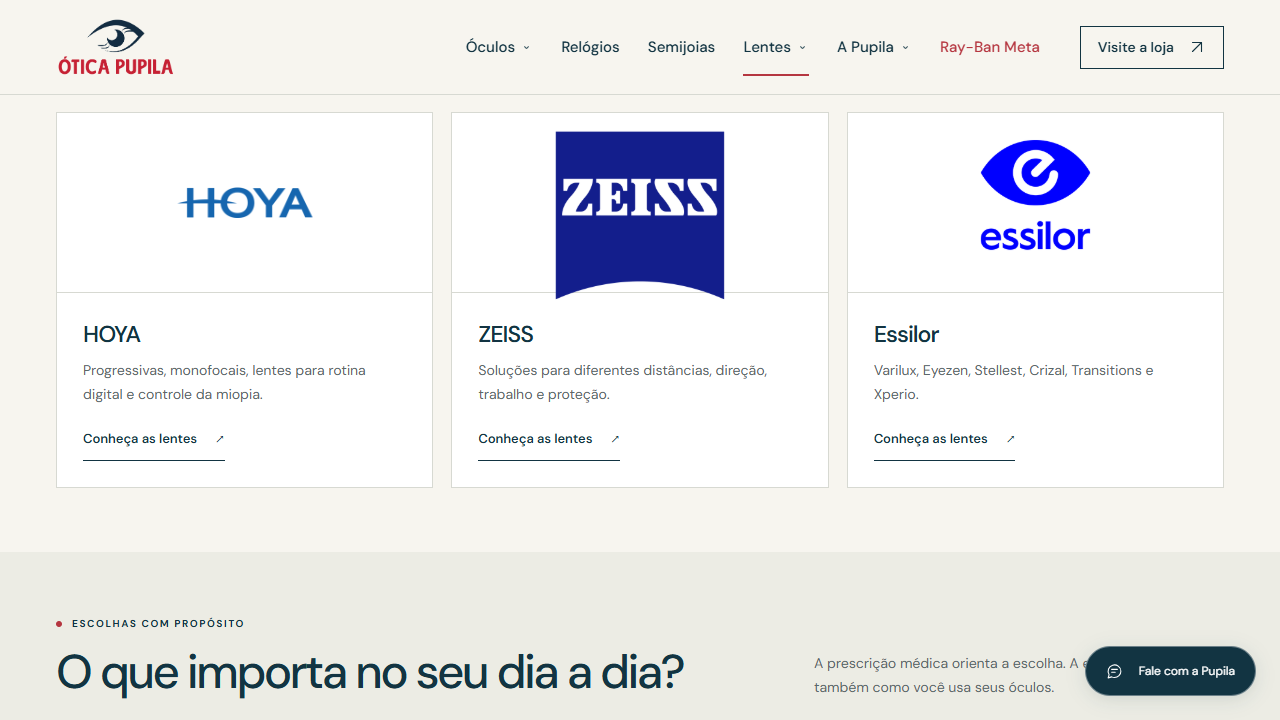
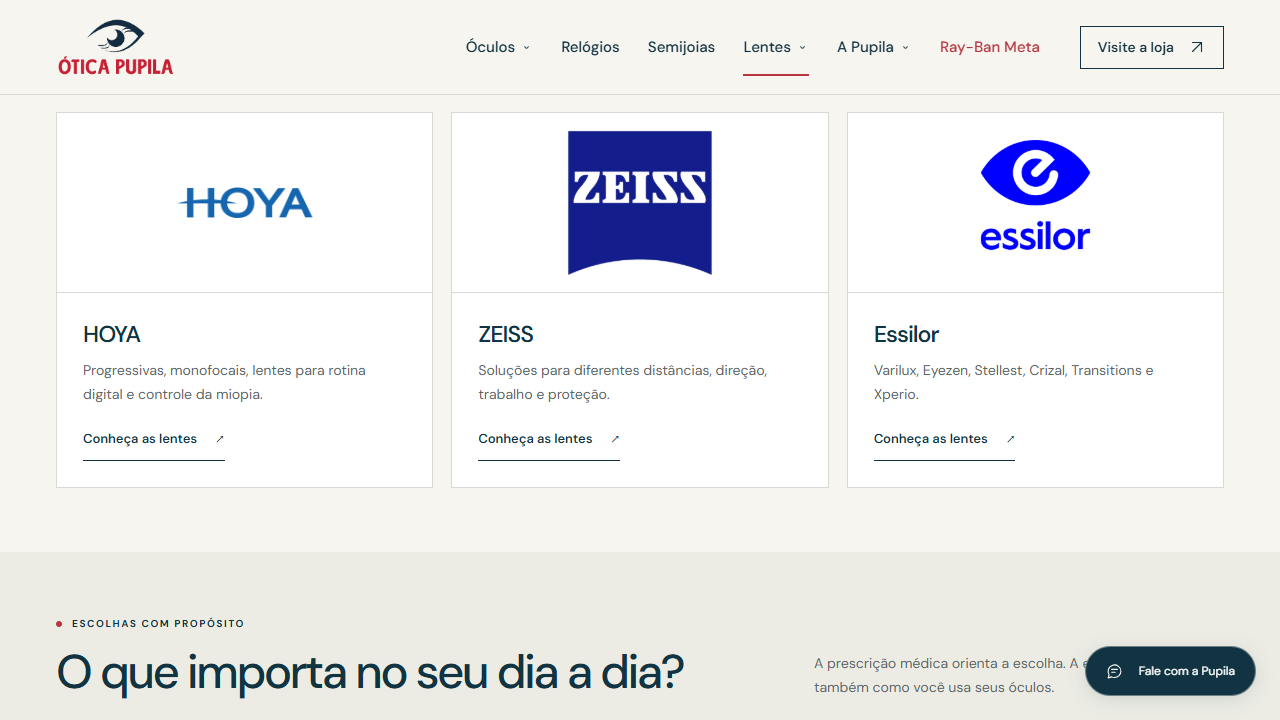
add lens technology guide and refine brand card

Changed region(s): [[0.4062, 0.1833, 0.5938, 0.4278]]

diff --git a/lentes/index.html b/lentes/index.html
@@ -64,8 +64,12 @@
 <section class="lens-service section"><div class="wrap"><div class="lens-service-heading"><div><p class="eyebrow">COMPRA COM RECEITA MÉDICA</p><h2>Como funciona o atendimento.</h2></div><p>A equipe da Pupila orienta a escolha das lentes para óculos com base na sua prescrição. Consultas, exames e adaptação médica não são realizados na loja.</p></div><div class="lens-service-steps"><div><span>01</span><h3>Traga sua receita</h3><p>Apresente a prescrição médica para as lentes que você procura.</p></div><div><span>02</span><h3>Converse com a equipe</h3><p>Conte como usa seus óculos no trabalho, na leitura e no dia a dia.</p></div><div><span>03</span><h3>Consulte as opções</h3><p>Verificamos produtos, configurações e prazos para sua escolha.</p></div></div><button type="button" class="button primary" data-whatsapp="Olá! Tenho minha receita médica e gostaria de saber mais sobre lentes para óculos na Ótica Pupila.">Consultar minhas lentes <span aria-hidden="true">↗</span></button></div></section>
 <section class="wrap section lens-brands"><div class="section-heading lens-section-heading"><div><p class="eyebrow">AS MARCAS COM QUE TRABALHAMOS</p><h2>Três referências em lentes.</h2></div><p>A Pupila é revendedora autorizada de HOYA, ZEISS e Essilor. Conheça as famílias de lentes e tecnologias de cada marca.</p></div><div class="lens-brand-grid"><a class="lens-brand-card" href="../lentes/hoya/"><span class="lens-brand-card-logo"><img class="lens-logo" src="../assets/lenses/hoya.png" width="320" height="320" alt="HOYA" loading="lazy" decoding="async"></span><span class="lens-brand-card-copy"><strong>HOYA</strong><span>Progressivas, monofocais, lentes para rotina digital e controle da miopia.</span><span class="text-link">Conheça as lentes <span aria-hidden="true">↗</span></span></span></a><a class="lens-brand-card" href="../lentes/zeiss/"><span class="lens-brand-card-logo"><img class="lens-logo" src="../assets/lenses/zeiss.png" width="3840" height="2160" alt="ZEISS" loading="lazy" decoding="async"></span><span class="lens-brand-card-copy"><strong>ZEISS</strong><span>Soluções para diferentes distâncias, direção, trabalho e proteção.</span><span class="text-link">Conheça as lentes <span aria-hidden="true">↗</span></span></span></a><a class="lens-brand-card" href="../lentes/essilor/"><span class="lens-brand-card-logo"><img class="lens-logo" src="../assets/lenses/essilor.png" width="504" height="250" alt="Essilor" loading="lazy" decoding="async"></span><span class="lens-brand-card-copy"><strong>Essilor</strong><span>Varilux, Eyezen, Stellest, Crizal, Transitions e Xperio.</span><span class="text-link">Conheça as lentes <span aria-hidden="true">↗</span></span></span></a></div></section>
 <section class="lens-needs section"><div class="wrap"><div class="section-heading lens-section-heading"><div><p class="eyebrow">ESCOLHAS COM PROPÓSITO</p><h2>O que importa no seu dia a dia?</h2></div><p>A prescrição médica orienta a escolha. A equipe considera também como você usa seus óculos.</p></div><div class="lens-family-grid"><article class="lens-family"><span class="lens-family-number">01</span><h3>Visão em várias distâncias</h3><p>Lentes multifocais progressivas para quem alterna entre perto, intermediário e longe.</p></article><article class="lens-family"><span class="lens-family-number">02</span><h3>Telas e trabalho</h3><p>Soluções para leitura, computador e outras atividades de perto ou intermediárias.</p></article><article class="lens-family"><span class="lens-family-number">03</span><h3>Luz e proteção</h3><p>Opções fotocromáticas, solares e tratamentos de superfície, conforme a lente escolhida.</p></article><article class="lens-family"><span class="lens-family-number">04</span><h3>Visão infantil</h3><p>Tecnologias específicas para crianças, avaliadas junto à indicação do oftalmologista.</p></article></div></div></section>
+<section class="lens-guide section" aria-labelledby="lens-guide-title"><div class="wrap"><div class="section-heading lens-section-heading"><div><p class="eyebrow">ENTENDA SUAS LENTES</p><h2 id="lens-guide-title">Tecnologia em palavras simples.</h2></div><p>O tipo de lente e seus tratamentos cumprem funções diferentes. A escolha deve seguir sua receita médica e as necessidades da sua rotina.</p></div>
+<div class="lens-explain-grid"><article class="lens-explain-card"><h3>Visão simples</h3><p>Também chamada monofocal: a lente tem um campo de correção para uma distância principal, como longe ou perto, conforme a prescrição.</p></article><article class="lens-explain-card"><h3>Multifocal progressiva</h3><p>Reúne graus para longe, distância intermediária e perto, com transição gradual entre as zonas e sem linha aparente.</p></article><article class="lens-explain-card"><h3>Bifocal</h3><p>Tem duas zonas, geralmente para longe e perto, separadas por uma linha visível. Não possui uma zona intermediária dedicada como a progressiva.</p></article><article class="lens-explain-card"><h3>Antirreflexo</h3><p>É um tratamento que reduz reflexos nas superfícies da lente. Pode ser combinado com diferentes tipos de lente, conforme o produto.</p></article><article class="lens-explain-card"><h3>Filtro de luz azul</h3><p>Filtra parte da luz azul-violeta; o quanto varia conforme a tecnologia. Estudos não demonstraram redução consistente do cansaço por telas no curto prazo.</p></article><article class="lens-explain-card"><h3>Lentes polarizadas</h3><p>Reduzem o brilho refletido por superfícies como água e asfalto, especialmente em ambientes externos. A proteção UV deve ser conferida na lente escolhida.</p></article></div>
+<div class="lens-fields"><div><p class="eyebrow">PERTO · INTERMEDIÁRIO · LONGE</p><h3>Onde ficam os campos de visão?</h3><p>Nas multifocais progressivas, costuma-se olhar pela parte superior para longe, pela região central para distâncias intermediárias e pela inferior para perto. As laterais podem apresentar áreas de desfoque; o desenho varia de acordo com a lente, a receita e a montagem.</p></div><div class="lens-field-examples"><figure><div class="lens-field-shape bifocal" aria-hidden="true"><span>Longe</span><span>Perto</span></div><figcaption><strong>Bifocal</strong><span>Duas zonas e linha divisória visível.</span></figcaption></figure><figure><div class="lens-field-shape progressive" aria-hidden="true"><span>Longe</span><span>Intermediário</span><span>Perto</span></div><figcaption><strong>Multifocal progressiva</strong><span>Transição gradual entre três distâncias.</span></figcaption></figure></div></div>
+<p class="lens-field-note">Esquema ilustrativo: não representa o formato ou a largura exata dos campos de uma lente específica.</p><div class="lens-guide-sources"><span>Para saber mais:</span><a class="source-link" href="https://www.zeiss.com.br/vision-care/precisa-de-lentes-novas/lentes-progressivas.html" target="_blank" rel="noopener noreferrer">Campos de visão e multifocais <span aria-hidden="true">↗</span></a><a class="source-link" href="https://www.zeiss.com.br/vision-care/saude-e-tratamento-dos-olhos/saude-e-prevencao/tratamentos-de-lentes-tratamento-antirreflexo-camada-rigida-cleancoat-etc.html" target="_blank" rel="noopener noreferrer">Antirreflexo <span aria-hidden="true">↗</span></a><a class="source-link" href="https://www.zeiss.com.br/vision-care/saude-e-tratamento-dos-olhos/conducao-e-mobilidade/mais-luz-para-sua-visao.html" target="_blank" rel="noopener noreferrer">Polarização <span aria-hidden="true">↗</span></a><a class="source-link" href="https://www.cochrane.org/evidence/CD013244_blue-light-filtering-spectacle-lenses-visual-performance-macular-back-part-eye-protection-and" target="_blank" rel="noopener noreferrer">Evidência sobre filtro azul <span aria-hidden="true">↗</span></a></div></div></section>
 <section class="wrap section lens-select-feature"><div><p class="eyebrow">UM RECONHECIMENTO DA ESSILORLUXOTTICA</p><h2>Essilor Varilux<br><em>Especialista Select 2026.</em></h2><p>A Ótica Pupila recebeu a certificação Essilor Varilux Especialista Select 2026. Conheça esse reconhecimento e as tecnologias Essilor com que trabalhamos.</p><a class="text-link" href="../lentes/essilor/">Conheça a página Essilor <span aria-hidden="true">↗</span></a></div><figure><img class="" src="../assets/lenses/essilor-select-2026.jpeg" width="3956" height="2666" alt="Certificado da EssilorLuxottica que reconhece a Ótica Pupila de Joinville como Essilor Varilux Especialista Select 2026" loading="lazy" decoding="async"><figcaption>Certificado EssilorLuxottica · 2026</figcaption></figure></section>
-<section class="wrap section lens-contact-teaser"><div><p class="eyebrow">TAMBÉM NA PUPILA</p><h2>Lentes de contato.</h2><p>Conheça as marcas e linhas de lentes de contato com que trabalhamos. A venda também exige receita médica.</p><a class="text-link" href="../lentes/contato/">Ver lentes de contato <span aria-hidden="true">↗</span></a></div></section></main>
+</main>
     <section class="visit-cta" aria-label="Planeje sua visita">
 <div class="wrap">
 <div>

diff --git a/assets/lens-pages.js b/assets/lens-pages.js
@@ -18,13 +18,19 @@
   const consultation = topic => `<section class="wrap section"><div class="care-note lens-consultation"><p class="eyebrow">SUA PRESCRIÇÃO, SUA ROTINA</p><h2>Vamos conversar sobre suas lentes?</h2><p>Traga sua receita médica. Nossa equipe apresenta as opções da marca e consulta as configurações e os prazos para você.</p>${whats(topic)}<p class="lens-small-note">Produtos, configurações e prazos sob consulta. Não exibimos preços ou estoque no site.</p></div></section>`;
   const service = (type, second) => `<section class="lens-service section"><div class="wrap"><div class="lens-service-heading"><div><p class="eyebrow">COMPRA COM RECEITA MÉDICA</p><h2>Como funciona o atendimento.</h2></div><p>A equipe da Pupila orienta a escolha das ${type} com base na sua prescrição. Consultas, exames e adaptação médica não são realizados na loja.</p></div><div class="lens-service-steps"><div><span>01</span><h3>Traga sua receita</h3><p>Apresente a prescrição médica para as lentes que você procura.</p></div><div><span>02</span><h3>Converse com a equipe</h3><p>${second}</p></div><div><span>03</span><h3>Consulte as opções</h3><p>Verificamos produtos, configurações e prazos para sua escolha.</p></div></div>${whats(type, 'Consultar minhas lentes')}</div></section>`;
   const editorialIntro = (kicker, title, text) => `<div class="section-heading lens-section-heading"><div><p class="eyebrow">${kicker}</p><h2>${title}</h2></div><p>${text}</p></div>`;
+  const explain = (title, text) => `<article class="lens-explain-card"><h3>${title}</h3><p>${text}</p></article>`;
+  const guide = `<section class="lens-guide section" aria-labelledby="lens-guide-title"><div class="wrap"><div class="section-heading lens-section-heading"><div><p class="eyebrow">ENTENDA SUAS LENTES</p><h2 id="lens-guide-title">Tecnologia em palavras simples.</h2></div><p>O tipo de lente e seus tratamentos cumprem funções diferentes. A escolha deve seguir sua receita médica e as necessidades da sua rotina.</p></div>
+<div class="lens-explain-grid">${explain('Visão simples', 'Também chamada monofocal: a lente tem um campo de correção para uma distância principal, como longe ou perto, conforme a prescrição.')}${explain('Multifocal progressiva', 'Reúne graus para longe, distância intermediária e perto, com transição gradual entre as zonas e sem linha aparente.')}${explain('Bifocal', 'Tem duas zonas, geralmente para longe e perto, separadas por uma linha visível. Não possui uma zona intermediária dedicada como a progressiva.')}${explain('Antirreflexo', 'É um tratamento que reduz reflexos nas superfícies da lente. Pode ser combinado com diferentes tipos de lente, conforme o produto.')}${explain('Filtro de luz azul', 'Filtra parte da luz azul-violeta; o quanto varia conforme a tecnologia. Estudos não demonstraram redução consistente do cansaço por telas no curto prazo.')}${explain('Lentes polarizadas', 'Reduzem o brilho refletido por superfícies como água e asfalto, especialmente em ambientes externos. A proteção UV deve ser conferida na lente escolhida.')}</div>
+<div class="lens-fields"><div><p class="eyebrow">PERTO · INTERMEDIÁRIO · LONGE</p><h3>Onde ficam os campos de visão?</h3><p>Nas multifocais progressivas, costuma-se olhar pela parte superior para longe, pela região central para distâncias intermediárias e pela inferior para perto. As laterais podem apresentar áreas de desfoque; o desenho varia de acordo com a lente, a receita e a montagem.</p></div><div class="lens-field-examples"><figure><div class="lens-field-shape bifocal" aria-hidden="true"><span>Longe</span><span>Perto</span></div><figcaption><strong>Bifocal</strong><span>Duas zonas e linha divisória visível.</span></figcaption></figure><figure><div class="lens-field-shape progressive" aria-hidden="true"><span>Longe</span><span>Intermediário</span><span>Perto</span></div><figcaption><strong>Multifocal progressiva</strong><span>Transição gradual entre três distâncias.</span></figcaption></figure></div></div>
+<p class="lens-field-note">Esquema ilustrativo: não representa o formato ou a largura exata dos campos de uma lente específica.</p><div class="lens-guide-sources"><span>Para saber mais:</span>${source('https://www.zeiss.com.br/vision-care/precisa-de-lentes-novas/lentes-progressivas.html', 'Campos de visão e multifocais')}${source('https://www.zeiss.com.br/vision-care/saude-e-tratamento-dos-olhos/saude-e-prevencao/tratamentos-de-lentes-tratamento-antirreflexo-camada-rigida-cleancoat-etc.html', 'Antirreflexo')}${source('https://www.zeiss.com.br/vision-care/saude-e-tratamento-dos-olhos/conducao-e-mobilidade/mais-luz-para-sua-visao.html', 'Polarização')}${source('https://www.cochrane.org/evidence/CD013244_blue-light-filtering-spectacle-lenses-visual-performance-macular-back-part-eye-protection-and', 'Evidência sobre filtro azul')}</div></div></section>`;
 
   const glasses = `${breadcrumb('Lentes para óculos')}<section class="page-intro wrap lens-page-intro"><p class="eyebrow">LENTES PARA ÓCULOS · JOINVILLE</p><h1>Tecnologia para o seu olhar.</h1><p class="lede">Trabalhamos com as principais tecnologias de HOYA, ZEISS e Essilor. Com sua prescrição em mãos, nossa equipe ajuda você a escolher as lentes mais adequadas à sua rotina. Produtos e prazos sob consulta.</p>${prescription}</section>
 ${service('lentes para óculos', 'Conte como usa seus óculos no trabalho, na leitura e no dia a dia.')}
 <section class="wrap section lens-brands">${editorialIntro('AS MARCAS COM QUE TRABALHAMOS', 'Três referências em lentes.', 'A Pupila é revendedora autorizada de HOYA, ZEISS e Essilor. Conheça as famílias de lentes e tecnologias de cada marca.')}<div class="lens-brand-grid">${brandCard('hoya', 'hoya.png', 320, 320, 'HOYA', 'Progressivas, monofocais, lentes para rotina digital e controle da miopia.')}${brandCard('zeiss', 'zeiss.png', 3840, 2160, 'ZEISS', 'Soluções para diferentes distâncias, direção, trabalho e proteção.')}${brandCard('essilor', 'essilor.png', 504, 250, 'Essilor', 'Varilux, Eyezen, Stellest, Crizal, Transitions e Xperio.')}</div></section>
 <section class="lens-needs section"><div class="wrap">${editorialIntro('ESCOLHAS COM PROPÓSITO', 'O que importa no seu dia a dia?', 'A prescrição médica orienta a escolha. A equipe considera também como você usa seus óculos.')}<div class="lens-family-grid">${family('01', 'Visão em várias distâncias', 'Lentes multifocais progressivas para quem alterna entre perto, intermediário e longe.')}${family('02', 'Telas e trabalho', 'Soluções para leitura, computador e outras atividades de perto ou intermediárias.')}${family('03', 'Luz e proteção', 'Opções fotocromáticas, solares e tratamentos de superfície, conforme a lente escolhida.')}${family('04', 'Visão infantil', 'Tecnologias específicas para crianças, avaliadas junto à indicação do oftalmologista.')}</div></div></section>
+${guide}
 <section class="wrap section lens-select-feature"><div><p class="eyebrow">UM RECONHECIMENTO DA ESSILORLUXOTTICA</p><h2>Essilor Varilux<br><em>Especialista Select 2026.</em></h2><p>A Ótica Pupila recebeu a certificação Essilor Varilux Especialista Select 2026. Conheça esse reconhecimento e as tecnologias Essilor com que trabalhamos.</p><a class="text-link" href="lentes/essilor/">Conheça a página Essilor <span aria-hidden="true">↗</span></a></div><figure>${image('essilor-select-2026.jpeg', 3956, 2666, 'Certificado da EssilorLuxottica que reconhece a Ótica Pupila de Joinville como Essilor Varilux Especialista Select 2026')}<figcaption>Certificado EssilorLuxottica · 2026</figcaption></figure></section>
-<section class="wrap section lens-contact-teaser"><div><p class="eyebrow">TAMBÉM NA PUPILA</p><h2>Lentes de contato.</h2><p>Conheça as marcas e linhas de lentes de contato com que trabalhamos. A venda também exige receita médica.</p><a class="text-link" href="lentes/contato/">Ver lentes de contato <span aria-hidden="true">↗</span></a></div></section>`;
+`;
 
   const hoya = `${brandHead('HOYA', 'hoya.png', 320, 320, 'Soluções para diferentes fases da vida, rotinas de trabalho e condições de luz, com famílias de lentes e tratamentos que podem ser combinados conforme a prescrição.')}
 <section class="wrap section">${editorialIntro('FAMÍLIAS HOYA', 'Lentes para diferentes necessidades.', 'Conheça algumas das principais tecnologias HOYA disponíveis para consulta na Pupila.')}<div class="lens-family-grid">${family('01', 'Hoyalux', 'Lentes multifocais progressivas para quem precisa de visão em várias distâncias.')}${family('02', 'Nulux e Sync III', 'Opções monofocais e de suporte visual para diferentes hábitos de uso.')}${family('03', 'WorkStyle e WorkSmart', 'Lentes ocupacionais voltadas a tarefas de perto e distâncias intermediárias.')}${family('04', 'MiYOSMART', 'Tecnologia para manejo da miopia infantil, mediante avaliação e prescrição do oftalmologista.')}</div></section>

diff --git a/assets/site.css b/assets/site.css
@@ -603,15 +603,37 @@ body[data-page="lentes"] .section { padding-block: clamp(44px, 5vw, 72px); }
 .lens-brand-grid { display: grid; grid-template-columns: repeat(3, minmax(0, 1fr)); gap: 18px; }
 .lens-brand-card { display: flex; flex-direction: column; min-height: 325px; background: white; border: 1px solid var(--line); transition: transform .25s var(--ease), box-shadow .25s var(--ease); }
 .lens-brand-card:hover { transform: translateY(-4px); box-shadow: 0 16px 30px #12344213; }
-.lens-brand-card-logo { display: grid; place-items: center; height: 180px; padding: 15px 25px; border-bottom: 1px solid var(--line); }
+.lens-brand-card-logo { display: grid; place-items: center; height: 180px; padding: 15px 25px; overflow: hidden; border-bottom: 1px solid var(--line); }
 .lens-logo { width: auto; max-width: 100%; height: 90px; object-fit: contain; }
 .lens-brand-card-logo .lens-logo { height: 150px; }
-.lens-brand-card-logo img[src$="zeiss.png"] { height: 175px; }
+.lens-brand-card-logo img[src$="zeiss.png"] { height: 150px; }
 .lens-brand-card-copy { display: flex; flex-direction: column; align-items: start; flex: 1; padding: 26px; }
 .lens-brand-card-copy > strong { font-size: 23px; font-weight: 550; letter-spacing: -.04em; }
 .lens-brand-card-copy > span:nth-child(2) { margin-top: 10px; color: var(--muted); font-size: 14px; line-height: 1.7; }
 .lens-brand-card-copy .text-link { margin-top: auto; padding-top: 22px; }
 .lens-needs { background: var(--soft); }
+.lens-explain-grid { display: grid; grid-template-columns: repeat(3, minmax(0, 1fr)); gap: 1px; background: var(--line); border: 1px solid var(--line); }
+.lens-explain-card { min-height: 170px; padding: 25px 28px; background: white; }
+.lens-explain-card h3 { margin-bottom: 12px; font-size: 22px; }
+.lens-explain-card p { margin: 0; font-size: 13px; line-height: 1.75; }
+.lens-fields { display: grid; grid-template-columns: .85fr 1.15fr; gap: 40px; align-items: center; margin-top: 32px; padding: 42px; background: var(--navy); color: var(--paper); }
+.lens-fields .eyebrow, .lens-fields p { color: var(--paper); }
+.lens-fields h3 { margin-bottom: 18px; font-size: clamp(28px, 2.8vw, 38px); }
+.lens-fields p { max-width: 48ch; margin-bottom: 0; font-size: 14px; }
+.lens-field-examples { display: grid; grid-template-columns: repeat(2, minmax(0, 1fr)); gap: 14px; }
+.lens-field-examples figure { display: flex; flex-direction: column; align-items: center; padding: 18px 14px; background: var(--paper); color: var(--navy); }
+.lens-field-shape { display: flex; flex-direction: column; width: min(165px, 100%); height: 195px; margin-bottom: 16px; overflow: hidden; border: 2px solid var(--navy); border-radius: 46% 46% 40% 40% / 31% 31% 50% 50%; text-align: center; }
+.lens-field-shape span { display: grid; place-items: center; color: var(--navy); font-size: 11px; font-weight: 700; }
+.lens-field-shape.bifocal span:first-child { flex: 2; background: #d8e7e7; }
+.lens-field-shape.bifocal span:last-child { flex: 1; border-top: 3px solid var(--navy); background: #f2ddc4; }
+.lens-field-shape.progressive { background: linear-gradient(to bottom, #d8e7e7 15%, #c1d8da 52%, #f2ddc4 90%); }
+.lens-field-shape.progressive span { flex: 1; }
+.lens-field-examples figcaption { display: flex; flex-direction: column; align-items: center; gap: 6px; text-align: center; }
+.lens-field-examples figcaption strong { font-size: 15px; }
+.lens-field-examples figcaption span { color: var(--muted); font-size: 12px; line-height: 1.55; }
+.lens-field-note { margin: 14px 0 20px; font-size: 12px; }
+.lens-guide-sources { display: flex; flex-wrap: wrap; align-items: center; gap: 6px 22px; font-size: 12px; }
+.lens-guide-sources .source-link { font-size: 12px; }
 .lens-family-grid { display: grid; grid-template-columns: repeat(2, minmax(0, 1fr)); gap: 1px; background: var(--line); border: 1px solid var(--line); }
 .lens-family-grid-three { grid-template-columns: repeat(3, minmax(0, 1fr)); }
 .lens-family-grid-five { grid-template-columns: repeat(6, minmax(0, 1fr)); }
@@ -629,11 +651,6 @@ body[data-page="lentes"] .section { padding-block: clamp(44px, 5vw, 72px); }
 .lens-select-feature figure, .lens-certificate figure { padding: 12px; background: white; border: 1px solid var(--line); }
 .lens-select-feature figure img, .lens-certificate figure img { width: 100%; height: auto; }
 .lens-select-feature figcaption, .lens-certificate figcaption { padding: 12px 5px 3px; color: var(--muted); font-size: 11px; }
-.lens-contact-teaser { padding: 38px 45px; background: var(--navy); color: var(--paper); }
-.lens-contact-teaser > div { max-width: 600px; }
-.lens-contact-teaser h2 { margin-bottom: 16px; }
-.lens-contact-teaser .eyebrow { color: var(--paper); }
-.lens-contact-teaser p { color: var(--paper); }
 .lens-consultation { padding: clamp(30px, 5vw, 60px); }
 .lens-consultation .button { margin-bottom: 20px; }
 .lens-small-note { margin: 16px 0 0; color: var(--muted); font-size: 12px !important; }
@@ -665,6 +682,8 @@ body[data-page="lentes"] .section { padding-block: clamp(44px, 5vw, 72px); }
   .lens-brand-grid { gap: 10px; }
   .lens-brand-card-copy { padding: 20px; }
   .lens-brand-card-logo { padding-inline: 18px; }
+  .lens-explain-grid { grid-template-columns: repeat(2, minmax(0, 1fr)); }
+  .lens-fields { grid-template-columns: 1fr; }
   .lens-select-feature, .lens-certificate { gap: 35px; }
   .lens-brand-mark { width: 230px; min-height: 160px; }
   .lens-brand-mark .lens-logo { width: 200px; height: 135px; }
@@ -677,17 +696,24 @@ body[data-page="lentes"] .section { padding-block: clamp(44px, 5vw, 72px); }
   .lens-service-steps > div { padding: 18px 22px; }
   .lens-section-heading { display: block; }
   .lens-section-heading > p { margin-top: 20px; }
+  .lens-explain-grid { grid-template-columns: 1fr; }
+  .lens-explain-card { min-height: 0; padding: 22px 25px; }
+  .lens-fields { gap: 25px; padding: 27px 20px; }
+  .lens-field-examples { gap: 8px; }
+  .lens-field-examples figure { padding: 12px 8px; }
+  .lens-field-shape { height: 170px; }
+  .lens-field-shape span { font-size: 10px; }
   .lens-brand-grid, .lens-family-grid { grid-template-columns: 1fr; }
   .lens-family-grid-five .lens-family, .lens-family-grid-five .lens-family:nth-child(n+4) { grid-column: auto; }
   .lens-brand-card { min-height: 0; }
   .lens-brand-card-logo { height: 165px; }
   .lens-brand-card-logo .lens-logo { height: 140px; }
+  .lens-brand-card-logo img[src$="zeiss.png"] { height: 130px; }
   .lens-brand-card-copy .text-link { margin-top: 10px; }
   .lens-family { min-height: 0; padding: 22px 25px; }
   .lens-family-number { margin-bottom: 14px; }
   .lens-select-feature, .lens-certificate, .contact-supplier { grid-template-columns: 1fr; }
   .lens-select-feature, .lens-certificate { gap: 25px; }
-  .lens-contact-teaser { padding: 30px 24px; }
   .lens-brand-heading { align-items: start; flex-direction: column-reverse; gap: 20px; }
   .lens-brand-mark { width: 100%; min-height: 145px; }
   .lens-brand-mark .lens-logo { width: 230px; height: 125px; }

diff --git a/docs/LENTES.md b/docs/LENTES.md
@@ -21,3 +21,12 @@ Pesquisa consultada em 29 de outubro de 2026. As páginas mostram famílias de p
 Os logotipos de contato encontrados nos sites dos fornecedores tinham fundos e proporções inconsistentes. A loja enviará arquivos PNG transparentes posteriormente. Até lá, a página identifica os fabricantes e fornecedores por nome, sem exibir esses logotipos.
 
 O site usa os nomes das linhas como texto, sem recortar marcas de embalagens ou reproduzir peças de campanha. A Pupila informou que atua apenas na venda mediante prescrição médica, sem consulta ou adaptação por oftalmologista na loja.
+
+## Guia de tipos e tratamentos
+
+O guia da página de óculos explica visão simples, bifocal, multifocal progressiva, antirreflexo, filtro de luz azul e polarização. O desenho dos campos de visão é esquemático e não representa a geometria ou o desempenho de qualquer produto específico.
+
+- [ZEISS: visão simples](https://www.zeiss.com.br/vision-care/precisa-de-lentes-novas/lentes-de-visao-simples.html) e [lentes progressivas](https://www.zeiss.com.br/vision-care/precisa-de-lentes-novas/lentes-progressivas.html): grau único e zonas de visão de longe, intermediária e perto.
+- [ZEISS: bifocais e progressivas](https://www.zeiss.com.br/vision-care/saude-e-tratamento-dos-olhos/vida-profissional/lentes-progressivas-pequenas-obras-primas.html): linha visível nas bifocais e transição gradual nas progressivas.
+- [ZEISS: antirreflexo](https://www.zeiss.com.br/vision-care/saude-e-tratamento-dos-olhos/saude-e-prevencao/tratamentos-de-lentes-tratamento-antirreflexo-camada-rigida-cleancoat-etc.html) e [lentes polarizadas](https://www.zeiss.com.br/vision-care/saude-e-tratamento-dos-olhos/conducao-e-mobilidade/mais-luz-para-sua-visao.html).
+- [Cochrane: revisão sobre filtros de luz azul](https://www.cochrane.org/evidence/CD013244_blue-light-filtering-spectacle-lenses-visual-performance-macular-back-part-eye-protection-and): os ensaios não demonstraram benefício consistente de curto prazo para fadiga visual causada por telas. Por isso o site descreve a filtragem sem prometer esse efeito.
